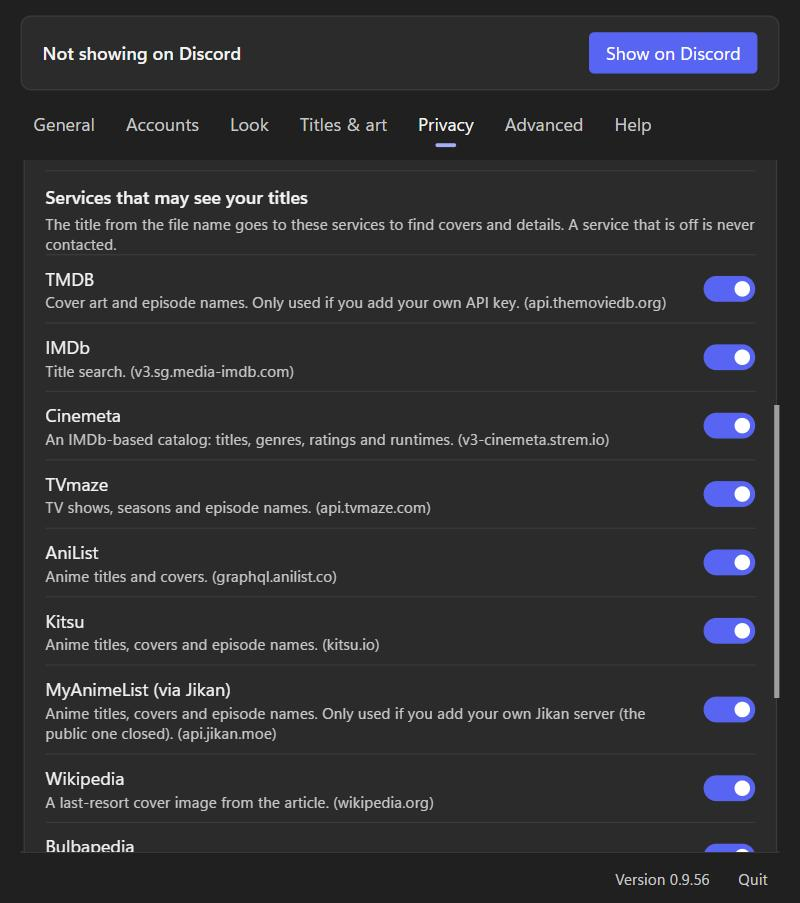
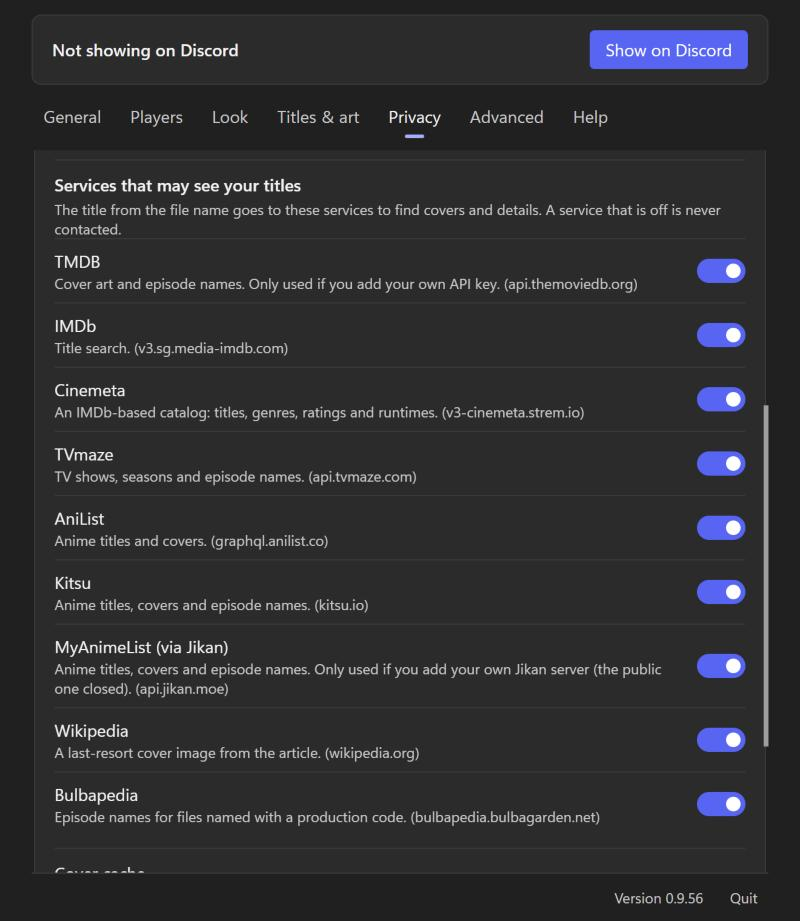
Accounts becomes Players; stats move to Help; the window opens at 660x760
The owner's answers on the items the redesign left out:
- Tab rework: the Accounts tab is now Players (section id "players"). It
  holds the players on this computer first ("On this computer": Set up the
  player connection, the MPC-HC port, mpv, VLC, Kodi, IINA, MPRIS, moved
  from Advanced > Players), then the Plex, Stremio and Jellyfin / Emby
  sign-ins. Advanced keeps Discord and Maintenance. Your stats move from
  General to Help. Every message, help text and doc that named Accounts or
  Advanced > Players now names the Players tab.
- The window opens at 660 x 760 (Edge --window-size, the macOS window);
  a window someone resized keeps its size.
- The system accent colour stays out (blurple kept).
README screenshots retaken at the new size.

diff --git a/internal/assets/ui.js b/internal/assets/ui.js
@@ -111,7 +111,7 @@
     if ((await modal(all ? 'Changelog' : "What's new in " + log[0].version, box, buttons, true)) === 1) showChangelog(true);
   }
 
-  // the counts on the General tab (kept on this computer only)
+  // the counts on the Help tab (kept on this computer only)
   const dur = (ms) => { const m = Math.floor(ms / 60000), h = Math.floor(m / 60); return h ? h + ' h ' + (m % 60) + ' min' : m + ' min'; };
   function paintStats(s) {
     if (!s) return;
@@ -218,9 +218,9 @@
 
   // What the window adds under some group headings (sign-ins, buttons); the settings themselves come from the schema.
   const EXTRAS = {
-    'accounts/Stremio': () => [stremioBox()],
-    'accounts/Jellyfin / Emby': () => [jellyfinBox()],
-    'advanced/Players': () => [playerSetupBox()],
+    'players/Stremio': () => [stremioBox()],
+    'players/Jellyfin / Emby': () => [jellyfinBox()],
+    'players/On this computer': () => [playerSetupBox()],
     'advanced/Maintenance': () => [maintenanceBox()],
   };
 
@@ -269,7 +269,7 @@
     main.addEventListener('change', () => later(apply));
   }
 
-  // "Set up the player connection" at the top of Advanced > Players: the same call and confirmation as the card that
+  // "Set up the player connection" at the top of the Players tab: the same call and confirmation as the card that
   // shows when no player is answering
   function playerSetupBox() {
     const msg = el('span', { className: 'help' });
@@ -313,7 +313,7 @@
       'Plex: only while you are signed in. plex.tv is asked for your servers, and your server tells this program what you play.',
       'Stremio: only while you are signed in. It is asked every 20 seconds which library entries changed.',
       'Jellyfin or Emby: only while you are signed in. Your own server is asked every 5 seconds what plays.',
-      'Kodi: only once its password is set (Advanced). It is asked at the address there, this computer unless you change it, and listened to on port 9090 there for its pause and play notifications.',
+      'Kodi: only once its password is set (Players tab). It is asked at the address there, this computer unless you change it, and listened to on port 9090 there for its pause and play notifications.',
       "The preview at the top loads the cover image from the service that hosts it, or the player's logo from GitHub. Discord loads them the same way for your status.",
       'A file that is just an episode number uses its folder\'s name as the title when "Use the folder name" is on; that name is looked up like any title.',
       'The player (' + players() + ') and Discord are only reached on this computer. No analytics, your stats stay here, and file paths are never sent.',
@@ -348,7 +348,7 @@
     } catch (_) {}
   }
 
-  // A sign-in on the Accounts tab. The program keeps the sign-in: the page never sees a token or key. o.extra is an
+  // A sign-in on the Players tab. The program keeps the sign-in: the page never sees a token or key. o.extra is an
   // element shown above the buttons, o.onShow(state) and o.onBusy(on) let it follow the box.
   function signInBox(name, o) {
     const text = help(''), err = el('div', { className: 'help bad hidden' });
@@ -526,7 +526,7 @@
     document.querySelectorAll('.panel').forEach((p) => p.classList.toggle('active', p.id === 'p-' + id));
     if (id === 'help') pollLog();
     if (id === 'privacy') pollConns();
-    if (id === 'general') api('stats').then(paintStats).catch(() => {});
+    if (id === 'help') api('stats').then(paintStats).catch(() => {});
   }
   function flagUpdate() { updFlag = true; const b = $('tab-general'); if (b) b.classList.add('has'); }
 
@@ -702,7 +702,7 @@
       try { fill(await api('reset', {})); note('Defaults restored.'); } catch (e) { note(e.message, true); }
     });
   }
-  // "Set up the player connection": used by the card shown when no player is answering and by Advanced > Players.
+  // "Set up the player connection": used by the card shown when no player is answering and by the Players tab.
   // msgEl shows the progress and the result.
   async function setUpPlayers(btn, msgEl) {
     btn.disabled = true;

diff --git a/internal/assets/ui.html b/internal/assets/ui.html
@@ -17,7 +17,7 @@
       <p><b>Welcome!</b> Two steps:</p>
       <ol>
         <li>In Discord, turn on <i>User Settings &gt; Activity Privacy &gt; Share my activity</i> (under <i>Games &amp; Apps</i>, or <i>Activity Settings</i> in older Discord).</li>
-        <li>Play something. For Plex, Jellyfin, Emby or Stremio, sign in on the <b>Accounts</b> tab.</li>
+        <li>Play something. For Plex, Jellyfin, Emby or Stremio, sign in on the <b>Players</b> tab.</li>
       </ol>
       <div class="row"><button id="welcomeOk">Got it</button></div>
     </section>
@@ -50,7 +50,7 @@
     </section>
 
     <section class="card notice warn hidden" id="mpcHelp">
-      <p id="mpcHelpText"><b>No player is answering.</b> Open your player and play something. MPC-HC, MPC-BE, VLC and mpv need setting up first: the button does it. PotPlayer needs nothing; Kodi needs its web server and password (Advanced).</p>
+      <p id="mpcHelpText"><b>No player is answering.</b> Open your player and play something. MPC-HC, MPC-BE, VLC and mpv need setting up first: the button does it. PotPlayer needs nothing; Kodi needs its web server and password (Players tab).</p>
       <p class="hidden" id="playerHint"></p>
       <div class="row"><button id="enableWeb">Set up the player connection</button><span class="help" id="webMsg"></span></div>
     </section>
@@ -76,10 +76,6 @@
         <div class="field"><label class="line"><span>Check for updates automatically</span><span class="sw"><input type="checkbox" id="checkUpdates"><span></span></span></label></div>
         <div class="field" id="autoUpdateRow"><label class="line"><span>Install updates automatically<div class="help">While this window is open it asks first. Otherwise it waits until nothing is playing.</div></span><span class="sw"><input type="checkbox" id="autoUpdate"><span></span></span></label></div>
       </div>
-      <h3 class="grp">Your stats</h3>
-      <div class="group">
-        <div class="field"><div id="statsText"></div><div class="help">Counted on this computer only: numbers, never titles. Nothing is sent anywhere.</div><div class="row actions"><button id="statsReset">Reset stats</button></div></div>
-      </div>
     </section>
 
     <section class="panel" id="p-help" role="tabpanel">
@@ -93,6 +89,10 @@
         <textarea id="diagText" class="hidden" readonly aria-label="Diagnostics text"></textarea>
       </div>
       <details class="group fold" id="logFold"><summary>Log</summary><div id="log" tabindex="0" role="region" aria-label="Log"></div></details>
+      <h3 class="grp">Your stats</h3>
+      <div class="group">
+        <div class="field"><div id="statsText"></div><div class="help">Counted on this computer only: numbers, never titles. Nothing is sent anywhere.</div><div class="row actions"><button id="statsReset">Reset stats</button></div></div>
+      </div>
       <div class="group credits" role="region" aria-label="Credits">
         <b>Credits</b>
         <!-- TMDB's own logo ("Primary short (blue)", themoviedb.org/about/logos-attribution), as its terms require -->

diff --git a/internal/store/schema.go b/internal/store/schema.go
@@ -40,7 +40,18 @@ func ip(n int) *int { return &n }
 
 // Sections is the settings window's layout. Adding a field here adds a control (and its validation).
 var Sections = []Section{
-	{ID: "accounts", Title: "Accounts", Fields: []Field{
+	// Players: the players on this computer first, then the services followed through a sign-in.
+	{ID: "players", Title: "Players", Fields: []Field{
+		{Type: "heading", Label: "On this computer"}, // the window puts "Set up the player connection" under it
+		{Key: "port", Type: "int", Label: "MPC-HC web interface port", Help: "MPC-BE and MPC-QT's web interfaces use it too. MPC-QT also works without one.", Min: ip(1), Max: ip(65535)},
+		{Key: "mpvPipe", Type: "text", Label: "mpv connection name", Help: "Set up the player connection fills this in. Leave empty to not look for mpv."},
+		{Key: "vlcPassword", Type: "secret", Label: "VLC web interface password", Help: "Set up the player connection fills this in. Leave empty to not look for VLC."},
+		{Key: "vlcPort", Type: "int", Label: "VLC web interface port", Help: "VLC uses 8080 unless you changed it.", Min: ip(1), Max: ip(65535)},
+		{Key: "kodiAddress", Type: "text", Label: "Kodi web server address", Help: "In Kodi: Settings > Services > Control > Allow remote control via HTTP, with a user name and password. 127.0.0.1:8080 is Kodi on this computer; a Kodi on another device has its own address."},
+		{Key: "kodiUser", Type: "text", Label: "Kodi user name", Help: "As set in Kodi (kodi unless you changed it)."},
+		{Key: "kodiPassword", Type: "secret", Label: "Kodi password", Help: "As set in Kodi. Leave empty to not look for Kodi."},
+		{Key: "iinaPipe", Type: "text", Label: "IINA connection", Help: "The input-ipc-server path in IINA's mpv options (IINA Settings > Advanced). Set up the player connection adds it; IINA reads it when it next starts. Leave empty to not look for IINA.", OS: []string{"darwin"}},
+		{Key: "mpris", Type: "bool", Label: "Find video players through MPRIS", Help: "Reads VLC, Celluloid, Haruna, SMPlayer, GNOME Videos, Clapper, mpv with mpv-mpris and other video players over D-Bus, with nothing to set up. Music players and web browsers are never shown.", OS: []string{"linux"}},
 		{Type: "heading", Label: "Plex"},
 		{Key: "plexAddress", Type: "text", Label: "Plex server address (optional)", Help: "Only needed when this computer cannot reach your server at the addresses plex.tv lists, for example http://192.168.1.20:32400. Leave empty to use those."},
 		{Type: "heading", Label: "Stremio"},         // the window puts the sign-in under it
@@ -86,16 +97,6 @@ var Sections = []Section{
 		{Key: "disabledSources", Type: "sources", Label: "Services that may see your titles", Help: "The title from the file name goes to these services to find covers and details. A service that is off is never contacted.", Sources: core.Sources},
 	}},
 	{ID: "advanced", Title: "Advanced", Fields: []Field{
-		{Type: "heading", Label: "Players"}, // the window puts "Set up the player connection" under it
-		{Key: "port", Type: "int", Label: "MPC-HC web interface port", Help: "MPC-BE and MPC-QT's web interfaces use it too. MPC-QT also works without one.", Min: ip(1), Max: ip(65535)},
-		{Key: "mpvPipe", Type: "text", Label: "mpv connection name", Help: "Set up the player connection fills this in. Leave empty to not look for mpv."},
-		{Key: "vlcPassword", Type: "secret", Label: "VLC web interface password", Help: "Set up the player connection fills this in. Leave empty to not look for VLC."},
-		{Key: "vlcPort", Type: "int", Label: "VLC web interface port", Help: "VLC uses 8080 unless you changed it.", Min: ip(1), Max: ip(65535)},
-		{Key: "kodiAddress", Type: "text", Label: "Kodi web server address", Help: "In Kodi: Settings > Services > Control > Allow remote control via HTTP, with a user name and password. 127.0.0.1:8080 is Kodi on this computer; a Kodi on another device has its own address."},
-		{Key: "kodiUser", Type: "text", Label: "Kodi user name", Help: "As set in Kodi (kodi unless you changed it)."},
-		{Key: "kodiPassword", Type: "secret", Label: "Kodi password", Help: "As set in Kodi. Leave empty to not look for Kodi."},
-		{Key: "iinaPipe", Type: "text", Label: "IINA connection", Help: "The input-ipc-server path in IINA's mpv options (IINA Settings > Advanced). Set up the player connection adds it; IINA reads it when it next starts. Leave empty to not look for IINA.", OS: []string{"darwin"}},
-		{Key: "mpris", Type: "bool", Label: "Find video players through MPRIS", Help: "Reads VLC, Celluloid, Haruna, SMPlayer, GNOME Videos, Clapper, mpv with mpv-mpris and other video players over D-Bus, with nothing to set up. Music players and web browsers are never shown.", OS: []string{"linux"}},
 		{Type: "heading", Label: "Discord"},
 		{Key: "clientId", Type: "text", Label: "Discord application ID", Help: "Make your own at discord.com/developers/applications to change the name and artwork Discord shows."},
 		{Key: "pollInterval", Type: "int", Label: "Check every (ms)", Min: ip(1000), Max: ip(60000)},

diff --git a/internal/plex/watcher.go b/internal/plex/watcher.go
@@ -134,7 +134,7 @@ func (w *Watcher) Run(ctx context.Context) {
 			return
 		}
 		if errors.Is(err, ErrToken) {
-			w.SetProblem("Plex refused the sign-in. Sign in to Plex again (Accounts > Plex).", w.Log)
+			w.SetProblem("Plex refused the sign-in. Sign in to Plex again (Players > Plex).", w.Log)
 		} else if err != nil {
 			w.SetProblem(err.Error(), w.Log)
 		}
@@ -175,7 +175,7 @@ func (w *Watcher) find(ctx context.Context) (Server, error) {
 	if w.Server == "" {
 		return Server{}, errors.New("Your Plex account has no server to follow.")
 	}
-	return Server{}, errors.New("The chosen Plex server is no longer in your Plex account. Choose another one (Accounts > Plex).")
+	return Server{}, errors.New("The chosen Plex server is no longer in your Plex account. Choose another one (Players > Plex).")
 }
 
 // reach finds an address of the server that answers as that server. The token goes only to an address that has
@@ -207,7 +207,7 @@ func (w *Watcher) reach(ctx context.Context, s Server, token string) (string, er
 		}
 	}
 	if w.Address != "" {
-		return "", fmt.Errorf("The Plex server%s does not answer at the address set in Accounts > Plex server address.", quoted(s.Name))
+		return "", fmt.Errorf("The Plex server%s does not answer at the address set in Players > Plex server address.", quoted(s.Name))
 	}
 	return "", fmt.Errorf("Could not reach the Plex server%s. Is it running, and can this computer reach it?", quoted(s.Name))
 }
@@ -254,7 +254,7 @@ func (w *Watcher) follow(ctx context.Context) error {
 	token := s.Token
 	if token == "" {
 		if !s.Owned && w.Address == "" {
-			return fmt.Errorf("plex.tv gave no sign-in for the shared Plex server%s. Sign out of Plex and in again (Accounts > Plex).", quoted(s.Name))
+			return fmt.Errorf("plex.tv gave no sign-in for the shared Plex server%s. Sign out of Plex and in again (Players > Plex).", quoted(s.Name))
 		}
 		token = w.Token
 	}

diff --git a/internal/engine/players.go b/internal/engine/players.go
@@ -89,7 +89,7 @@ func (e *Engine) fetchVLC(ctx context.Context, cfg core.Config) *core.Info {
 	case errors.Is(err, vlchttp.ErrNoPassword):
 		problem = "VLC's web interface has no password, so VLC keeps it closed. Press Set up the player connection, then restart VLC."
 	case errors.Is(err, vlchttp.ErrNotVLC):
-		problem = fmt.Sprintf("Port %d answers, but not as VLC. Another program may be using it (Advanced > Players > VLC web interface port).", cfg.VlcPort)
+		problem = fmt.Sprintf("Port %d answers, but not as VLC. Another program may be using it (Players > VLC web interface port).", cfg.VlcPort)
 	}
 	e.mu.Lock()
 	changed := problem != e.vlcProblem
@@ -335,7 +335,7 @@ func (e *Engine) fetchKodi(ctx context.Context, cfg core.Config) *core.Info {
 	case errors.Is(err, kodi.ErrPassword):
 		problem = "Kodi refused the user name or password. They have to match the ones in Kodi (Settings > Services > Control)."
 	case errors.Is(err, kodi.ErrNotKodi):
-		problem = "The Kodi address answers, but not as Kodi. Check the address and port (Advanced > Players > Kodi web server address)."
+		problem = "The Kodi address answers, but not as Kodi. Check the address and port (Players > Kodi web server address)."
 	}
 	e.mu.Lock()
 	changed := problem != e.kodiProblem

diff --git a/cmd/mpcvibedrpc/selfcheck.go b/cmd/mpcvibedrpc/selfcheck.go
@@ -96,7 +96,7 @@ func noPlayerHint(goos string) string {
 	if names == "" {
 		names = "VLC, Celluloid, Haruna or mpv"
 	}
-	return "No player answers. Open " + names + " and play something. If it still does not answer, press Set up the player connection (Advanced)."
+	return "No player answers. Open " + names + " and play something. If it still does not answer, press Set up the player connection (Players tab)."
 }
 
 // playerLines turns the probes into lines: each player that answers, each problem that is known, one line for the
@@ -140,7 +140,7 @@ func playerLines(probes []engine.PlayerProbe, goos string) []checkItem {
 		add("ok", "Signed in: "+strings.Join(signedIn, ", ")+".")
 	}
 	if len(signedOut) > 0 {
-		add("info", "Not signed in: "+strings.Join(signedOut, ", ")+". Only needed if you use them (Accounts tab).")
+		add("info", "Not signed in: "+strings.Join(signedOut, ", ")+". Only needed if you use them (Players tab).")
 	}
 	return out
 }

diff --git a/internal/core/config.go b/internal/core/config.go
@@ -36,7 +36,7 @@ type Config struct {
 	// Stremio: the sign-in made with "Sign in to Stremio" (not typed in the window; empty = Stremio is not followed)
 	StremioKey string `json:"stremioKey"` // the account's key
 
-	// Jellyfin or Emby: the sign-in made on the Accounts tab (not typed in the window; empty jellyfinToken = not followed)
+	// Jellyfin or Emby: the sign-in made on the Players tab (not typed in the window; empty jellyfinToken = not followed)
 	JellyfinAddress    string `json:"jellyfinAddress"`    // the server's address (ending in /emby for an Emby server that needs it)
 	JellyfinToken      string `json:"jellyfinToken"`      // this install's sign-in on the server
 	JellyfinUser       string `json:"jellyfinUser"`       // the user's id (only their own playback counts)

diff --git a/internal/winsys/macapp_darwin.go b/internal/winsys/macapp_darwin.go
@@ -174,7 +174,7 @@ static void macShowWindow(const char *url) {
 	NSURL *u = [NSURL URLWithString:[NSString stringWithUTF8String:url]];
 	dispatch_async(dispatch_get_main_queue(), ^{
 		if (!window) {
-			window = [[NSWindow alloc] initWithContentRect:NSMakeRect(0, 0, 620, 700)
+			window = [[NSWindow alloc] initWithContentRect:NSMakeRect(0, 0, 660, 760)
 				styleMask:NSWindowStyleMaskTitled | NSWindowStyleMaskClosable | NSWindowStyleMaskMiniaturizable | NSWindowStyleMaskResizable
 				backing:NSBackingStoreBuffered defer:NO];
 			window.releasedWhenClosed = NO;

diff --git a/internal/jellyfin/watcher.go b/internal/jellyfin/watcher.go
@@ -107,7 +107,7 @@ func (w *Watcher) Run(ctx context.Context) {
 			w.conn, w.play = false, nil
 			w.mu.Unlock()
 			if errors.Is(err, ErrToken) {
-				w.SetProblem(w.product()+" refused the sign-in. Sign in again (Accounts > Jellyfin / Emby).", w.Log)
+				w.SetProblem(w.product()+" refused the sign-in. Sign in again (Players > Jellyfin / Emby).", w.Log)
 			} else {
 				w.SetProblem(fmt.Sprintf("Could not reach your %s server (%v). Is it running, and can this computer reach it?", w.product(), Reason(err)), w.Log)
 			}

diff --git a/internal/winsys/window.go b/internal/winsys/window.go
@@ -64,7 +64,7 @@ func OpenWindow(url, profileDir string) string {
 		return "app" // the macOS app shows the page in a window of its own
 	}
 	if b != "" {
-		args := []string{"--app=" + url, "--window-size=620,700"}
+		args := []string{"--app=" + url, "--window-size=660,760"}
 		if profileDir != "" {
 			prepareProfile(profileDir)
 			args = append(args, "--user-data-dir="+profileDir, "--no-first-run", "--no-default-browser-check", "--disable-background-mode", "--disable-features=msStartupBoost")

diff --git a/cmd/mpcvibedrpc/selfcheck_test.go b/cmd/mpcvibedrpc/selfcheck_test.go
@@ -122,7 +122,7 @@ func TestPlayerLines(t *testing.T) {
 		{"Players", "problem", "VLC: VLC refused the password."},
 		{"Players", "info", "No answer from: Kodi. That is fine for players you do not use."},
 		{"Players", "ok", "Signed in: Plex."},
-		{"Players", "info", "Not signed in: Stremio. Only needed if you use them (Accounts tab)."},
+		{"Players", "info", "Not signed in: Stremio. Only needed if you use them (Players tab)."},
 	}
 	if len(items) != len(want) {
 		t.Fatalf("%+v", items)

diff --git a/internal/stremio/watcher.go b/internal/stremio/watcher.go
@@ -114,7 +114,7 @@ func (w *Watcher) Run(ctx context.Context) {
 		next := w.every()
 		switch {
 		case errors.Is(err, ErrKey):
-			w.SetProblem("Stremio refused the sign-in. Sign in to Stremio again (Accounts > Stremio).", w.Log)
+			w.SetProblem("Stremio refused the sign-in. Sign in to Stremio again (Players > Stremio).", w.Log)
 			next = 2 * time.Minute
 		case err != nil:
 			w.SetProblem(fmt.Sprintf("Could not reach Stremio's library (%v).", err), w.Log)
